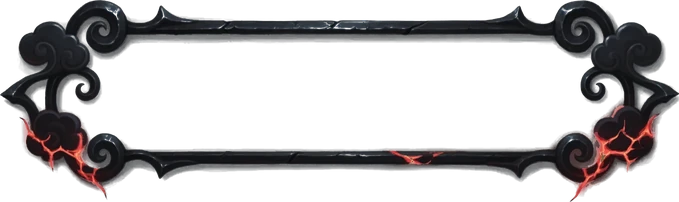
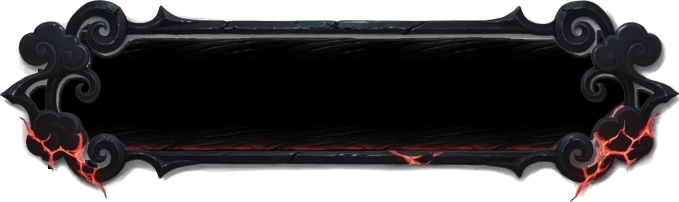
Tamahagane 2.22.1: wnętrze smukłych ramek w kształcie ramy zamiast prostokątnego tła

diff --git a/margonem-tamahagane/margonem-tamahagane.user.js b/margonem-tamahagane/margonem-tamahagane.user.js
@@ -1,7 +1,7 @@
 // ==UserScript==
 // @name         Margonem – Tamahagane
 // @namespace    https://github.com/Harkryn/Dodatki
-// @version      2.22.0
+// @version      2.22.1
 // @description  Motyw nowego interfejsu (NI) z hartowanej stali tamahagane: żelazo z żarzącymi się pęknięciami, czarny lakier, tsuba i płynny żar. Tylko wygląd – bez zmian w logice gry.
 // @author       Harkryn
 // @match        https://*.margonem.pl/*
@@ -57,7 +57,7 @@
   // Stary interfejs (SI): gra zapisuje wybór w ciasteczku `interface` – w SI nic nie robimy.
   try { if (/(?:^|;\s*)interface=si\b/i.test(document.cookie || '')) return; } catch (e) { /* brak ciasteczek */ }
 
-  const VERSION = '2.22.0';
+  const VERSION = '2.22.1';
   const ON = 'tmg-on';          // motyw włączony
   const FX = 'tmg-fx';          // efekty (popiół, mgła) włączone
   const KEY_ON = 'tmg-enabled';
@@ -941,6 +941,7 @@ ${N} .dialogue-window .content .answers li:hover .icon { filter: grayscale(1) se
    * ===================================================================== */
   // Style górnej ramki (wybór: Ctrl+Alt+R, menu Tampermonkey). Grafiki zapisane w 2× skali wyświetlania;
   // otwór ramy trafia dokładnie na pole tekstu (342 px × od `top` do 80 px), ozdoby wystają na boki, w górę i w dół.
+  // Lakier tła jest w grafice (wnętrze w kształcie ramy, border-image fill) – bez prostokątnego tła tabliczki.
   const PLATES = {
     chmury:    { key: 'plateChmury', label: 'Chmury',    bi: '27 55 50 60 / 13.5px 27.5px 25px 30px / 0 27.5px 25px 30px', top: 13.5 },
     szpice:    { key: 'plateSzpice', label: 'Szpice',    bi: '62 166 61 170 / 31px 83px 30.5px 85px / 13px 83px 30.5px 85px', top: 18 },
@@ -952,12 +953,8 @@ ${N} .dialogue-window .content .answers li:hover .icon { filter: grayscale(1) se
   const plateName = () => (PLATES[get(KEY_PLATE, PLATE_DEF)] ? get(KEY_PLATE, PLATE_DEF) : PLATE_DEF);
   const cssPlates = Object.entries(PLATES).filter(([, v]) => v.bi).map(([n, v]) => `
 html.${ON}.tmg-ni.tmg-pl-${n} .interface-layer .hud-container {
-  border-image: url("${IMG[v.key]}") ${v.bi} stretch !important;
-  background:
-    var(--tmg-brush-dim) center 42px / 60% 6px no-repeat,
-    radial-gradient(ellipse 45% 70% at 50% 100%, rgb(122 18 18 / .2), transparent 70%),
-    url("${IMG.bar}") 0 ${v.top}px / auto 140% repeat-x,
-    linear-gradient(var(--tmg-k0), var(--tmg-k0)) 0 ${v.top}px / 100% 100% no-repeat !important;
+  border-image: url("${IMG[v.key]}") ${v.bi.replace(' /', ' fill /')} stretch !important;
+  background: var(--tmg-brush-dim) center 42px / 60% 6px no-repeat !important;
 }`).join('');
 
   const cssBars = `

diff --git a/assets/tamahagane/PROMPTS.md b/assets/tamahagane/PROMPTS.md
@@ -98,4 +98,4 @@ Negative: photorealistic, photo, realistic, text, letters, watermark, blurry, lo
 - szpice (seed 1633156813, negative + sword, blade, weapon, knife): of a slim dark iron band, the left and right short sides taper outward into a single sharp elegant point, one thin glowing red lava crack running along the top band, minimal and light
 - rogi (seed 2100265740): of thin glossy black lacquer with a fine dark iron edging, two small curved demon horns rising at the top left and top right corners, faint red ember glow at the horn bases
 - habaki (seed 1512321190, negative + sword): shaped like a katana blade collar, a thin dark steel band with small flared brass-and-iron clips at the left and right ends like a habaki, subtle red ember glow at the clips, slim and refined
-Obróbka: klucz jasnego tła i szarego wnętrza (ciemność + nasycenie), odkażenie krawędzi, otwór wyznaczony zalaniem od środka; żelazo ×0,5 (żar bez zmian); zapis w 2× skali wyświetlania (otwór = 124 px wysokości).
+Obróbka: klucz jasnego tła i szarego wnętrza (ciemność + nasycenie), odkażenie krawędzi, otwór wyznaczony zalaniem od środka; wnętrze w kształcie ramy (wszystko nieosiągalne z brzegu obrazka, przy otworze) wypełnione lakierem pasek-tlo; żelazo ×0,5 (żar bez zmian); zapis w 2× skali wyświetlania (otwór = 124 px wysokości).
